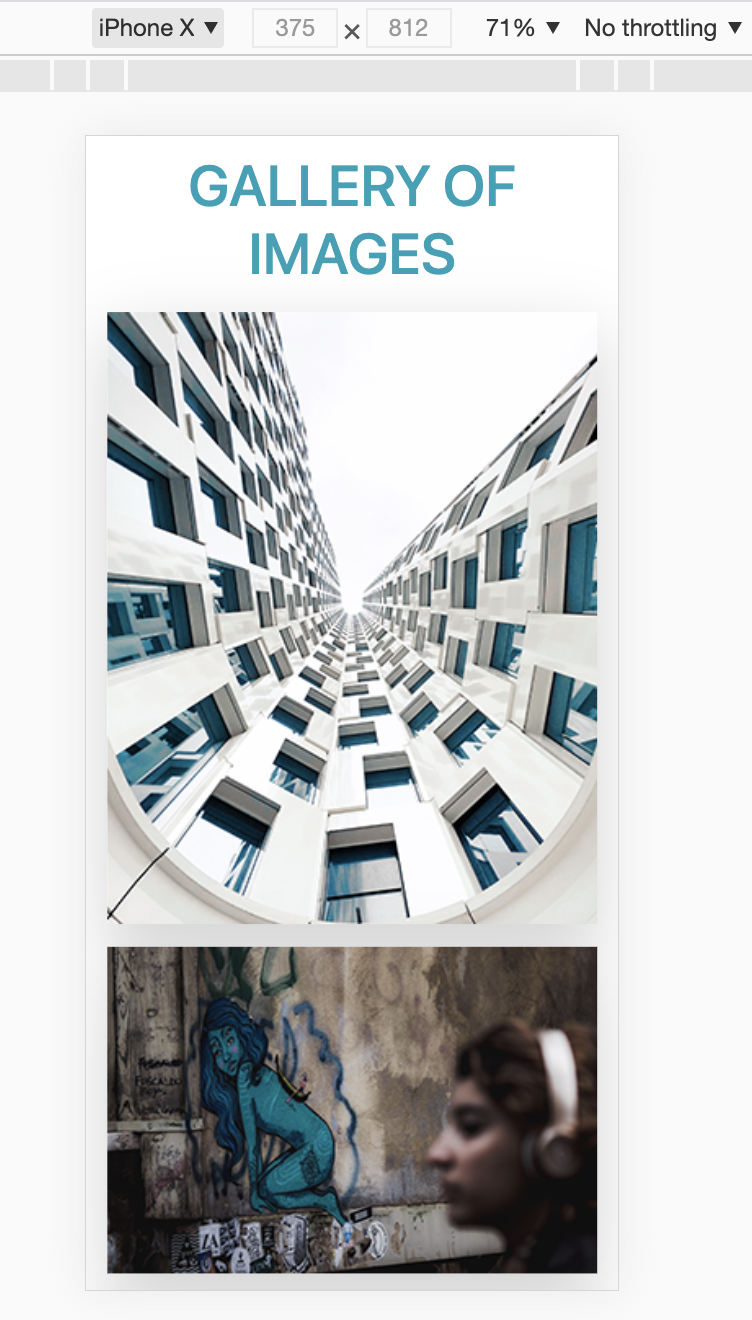
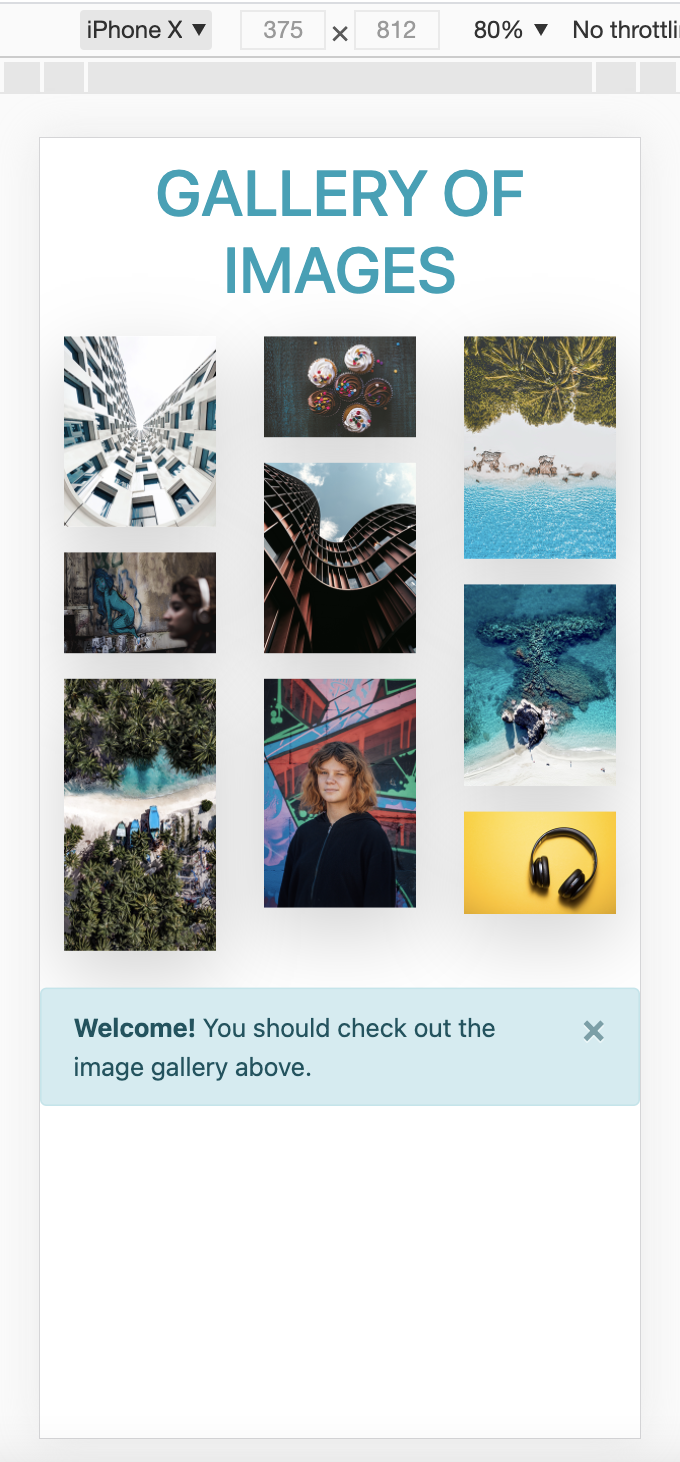
Update image and index.html file

diff --git a/index.html b/index.html
@@ -19,7 +19,7 @@
     <h1 class="text-center text-uppercase text-info">Gallery of Images</h1>
 
     <div class="container">
-        <div class="row justify-content-center row-cols-1 row-cols-sm-3">
+        <div class="row justify-content-center row-cols-sm-3">
             <div class="col">
                 <img class="shadow-lg mb-3" src="img/hw2-image1.png" title="Building with many windows" alt="Building with many windows" />
                 <img class="shadow-lg mb-3" src="img/hw2-image3.png" title="Grafitti art" alt="Grafitti art" />
